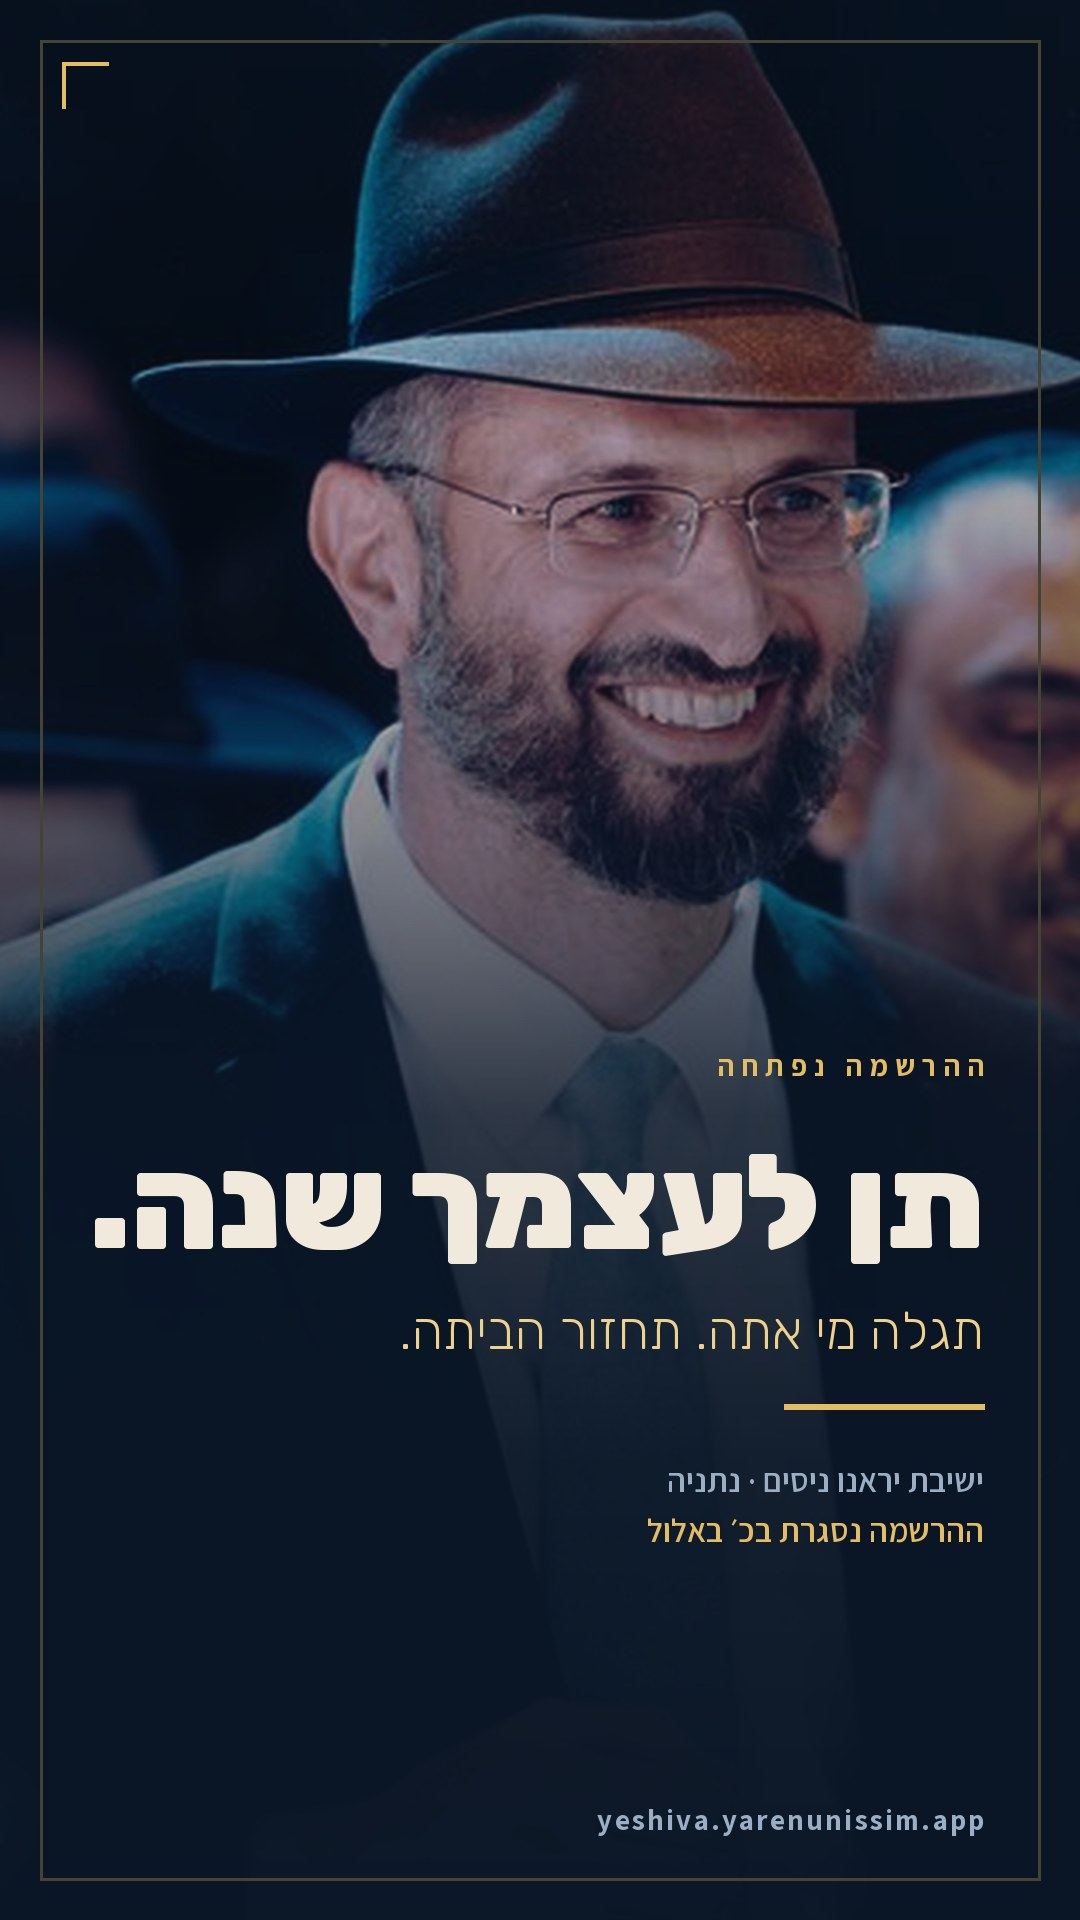
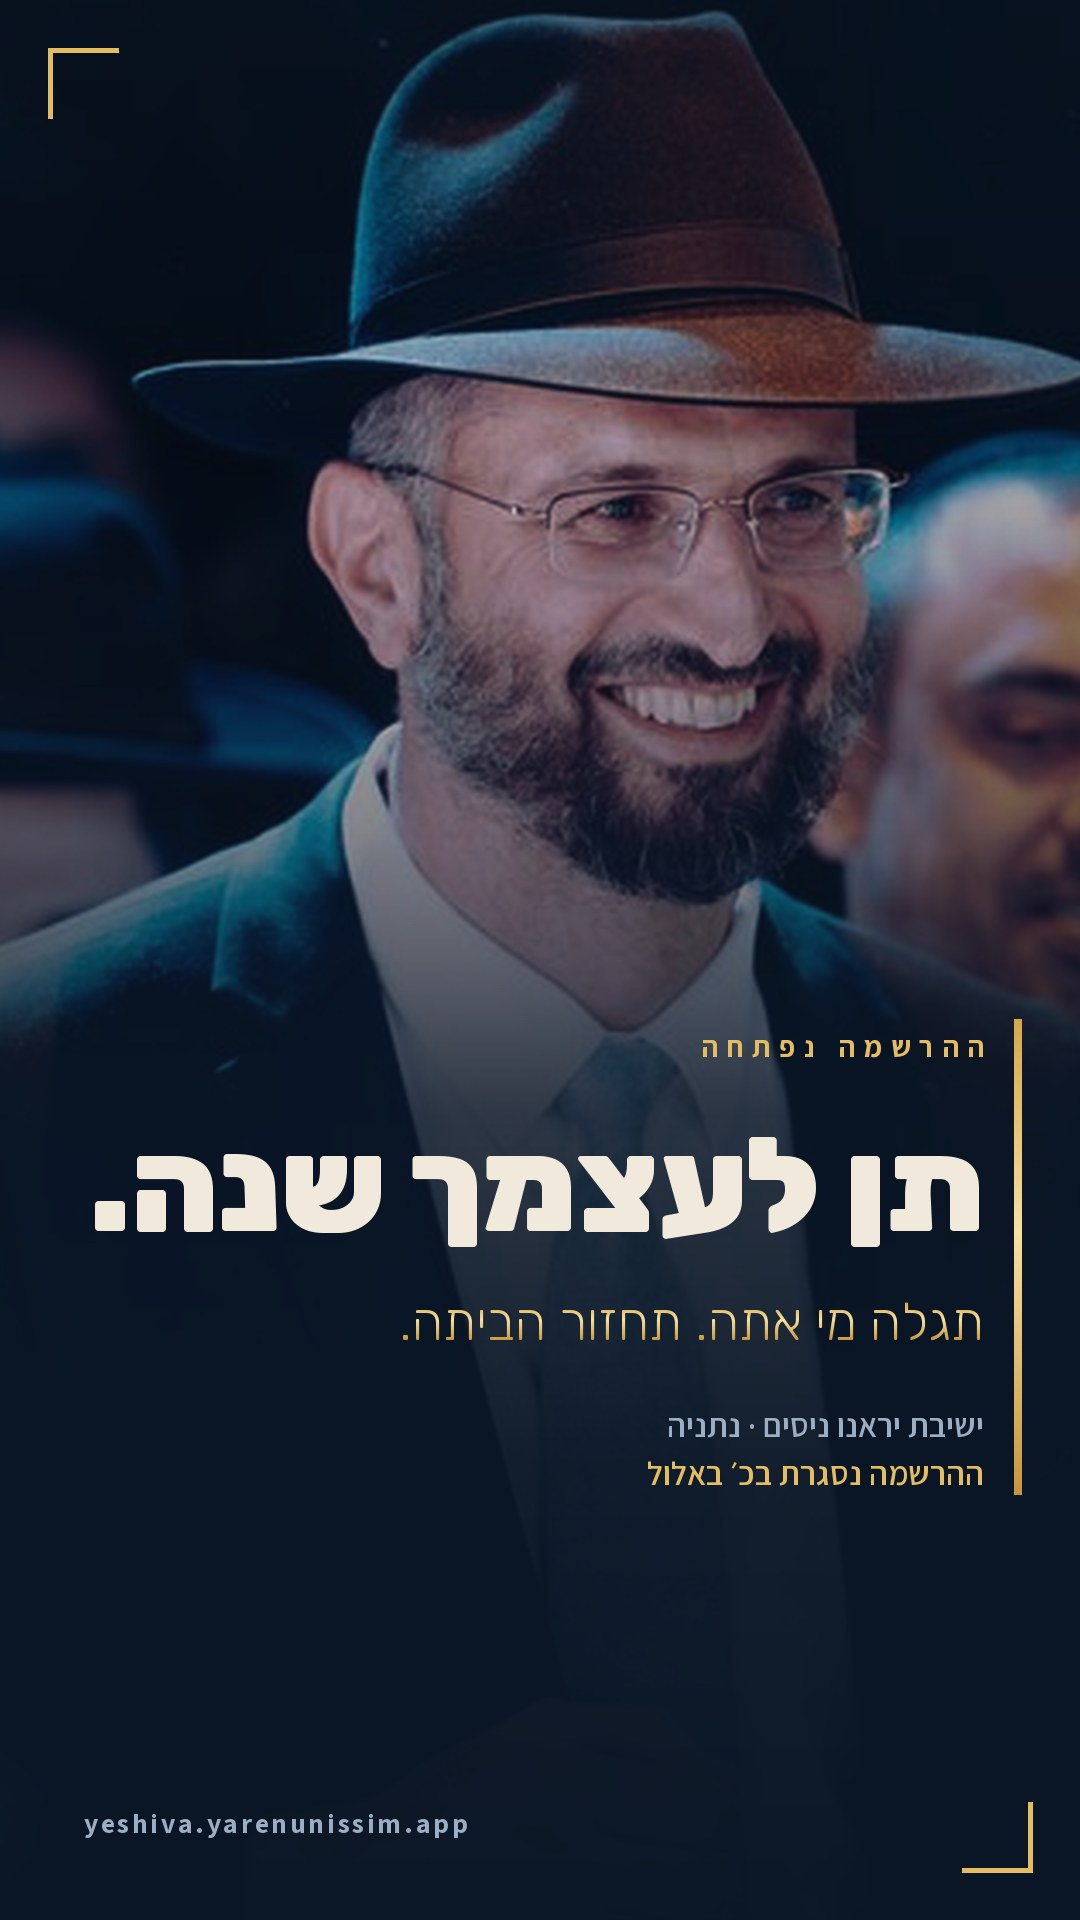
social v3: bracket marks replace the plain rectangle, gold spine anchors the copy, metallic gradient on the sub-line, URL moved clear of the corner mark

diff --git a/tools/make_social.py b/tools/make_social.py
@@ -121,6 +121,17 @@ def harmonize(im, shadow=INK, warm=1.04, strength=0.42):
     return Image.fromarray((np.clip(a, 0, 1) * 255).astype(np.uint8))
 
 
+def tracked_left(d, left, y, text, fnt, fill, track=0):
+    """Left-anchored tracked text — the URL is Latin, so it belongs on the left,
+    clear of the right-aligned Hebrew and the bottom-right bracket."""
+    vis = rtl(text)
+    x = left
+    for ch in vis:
+        d.text((x, y), ch, font=fnt, fill=fill)
+        x += d.textlength(ch, font=fnt) + track
+    return x - left
+
+
 def tracked(d, right, y, text, fnt, fill, track=0):
     """Letter-spaced text, right-anchored. PIL has no tracking, so advance by
     hand — the wide gold eyebrow is what makes the card feel typeset."""
@@ -134,17 +145,53 @@ def tracked(d, right, y, text, fnt, fill, track=0):
     return total
 
 
-def frame(d, w, h, inset, colour=GOLD, thick=2, alpha=70):
-    """Thin inset rule — reads as a printed edge, not a border."""
-    c = tuple(int(INK[i] + (colour[i] - INK[i]) * alpha / 255) for i in range(3))
-    d.rectangle([inset, inset, w - inset, h - inset], outline=c, width=thick)
+def gold_grad(w, h, c0=(214, 168, 74), c1=(247, 224, 160), c2=(198, 150, 60)):
+    """Vertical metallic ramp — flat gold reads as a colour, a ramp reads as leaf."""
+    top = np.linspace(0, 1, h, dtype=np.float32)[:, None]
+    a = np.asarray(c0, np.float32); b = np.asarray(c1, np.float32); c = np.asarray(c2, np.float32)
+    up = a + (b - a) * np.clip(top / 0.45, 0, 1)
+    dn = b + (c - b) * np.clip((top - 0.45) / 0.55, 0, 1)
+    col = np.where(top < 0.45, up, dn)
+    return Image.fromarray(np.repeat(col[:, None, :], w, axis=1).astype(np.uint8))
 
 
-def corner_mark(d, x, y, size, colour=GOLD):
-    """Small geometric accent: two strokes meeting at a corner."""
-    t = max(3, size // 12)
-    d.rectangle([x, y, x + size, y + t], fill=colour)
-    d.rectangle([x, y, x + t, y + size], fill=colour)
+def grad_text(base, xy, text, fnt, anchor="ra", grad=None):
+    """Draw text filled with a vertical gradient instead of a flat colour."""
+    tmp = Image.new("L", base.size, 0)
+    ImageDraw.Draw(tmp).text(xy, rtl(text), font=fnt, fill=255, anchor=anchor)
+    bbox = tmp.getbbox()
+    if not bbox:
+        return
+    g = grad if grad is not None else gold_grad(base.size[0], bbox[3] - bbox[1])
+    layer = Image.new("RGB", base.size, (0, 0, 0))
+    layer.paste(g.resize((base.size[0], bbox[3] - bbox[1])), (0, bbox[1]))
+    base.paste(layer, (0, 0), tmp)
+
+
+def bracket(d, x, y, size, thick, colour=GOLD, flip_x=False, flip_y=False):
+    """An open corner bracket — the frame is implied, not drawn. Reads as a
+    considered mark rather than the default rectangle a template would give."""
+    sx = -1 if flip_x else 1
+    sy = -1 if flip_y else 1
+    d.rectangle(sorted_box(x, y, x + sx * size, y + sy * thick), fill=colour)
+    d.rectangle(sorted_box(x, y, x + sx * thick, y + sy * size), fill=colour)
+
+
+def sorted_box(x0, y0, x1, y1):
+    return [min(x0, x1), min(y0, y1), max(x0, x1), max(y0, y1)]
+
+
+def corner_set(d, w, h, inset, size, thick=3):
+    """Brackets on the two diagonal corners only — asymmetry looks deliberate,
+    all four looks like a border."""
+    bracket(d, inset, inset, size, thick)
+    bracket(d, w - inset, h - inset, size, thick, flip_x=True, flip_y=True)
+
+
+def side_bar(base, x, y0, y1, width=7):
+    """A vertical gold spine beside the copy — anchors the text block."""
+    h = y1 - y0
+    base.paste(gold_grad(width, h), (x, y0))
 
 
 def vignette(im, strength=0.30):
@@ -172,29 +219,30 @@ def horizontal(w=1200, h=630, photo="opt/harav-portrait.jpg", out="og-share.jpg"
     base = vignette(base, 0.22)
 
     d = ImageDraw.Draw(base)
-    frame(d, w, h, 26)
-    corner_mark(d, 40, 40, 34)
+    corner_set(d, w, h, 30, 46, 3)
 
-    right = int(w * 0.555)
-    f_eye  = font("Assistant-700.ttf", 20)
-    f_head = font("Rubik-900.ttf", 86)
-    f_sub  = font("Rubik-300.ttf", 36)
-    f_sm   = font("Assistant-600.ttf", 23)
-    f_url  = font("Assistant-700.ttf", 20)
+    right = int(w * 0.560)
+    f_eye  = font("Assistant-700.ttf", 19)
+    f_head = font("Rubik-900.ttf", 92)
+    f_sub  = font("Rubik-300.ttf", 37)
+    f_sm   = font("Assistant-600.ttf", 22)
+    f_url  = font("Assistant-700.ttf", 19)
 
-    y = int(h * 0.185)
-    tracked(d, right, y, eyebrow, f_eye, GOLD, track=5.5)
-    y += 52
+    top = int(h * 0.175)
+    y = top
+    tracked(d, right, y, eyebrow, f_eye, GOLD, track=6.5)
+    y += 54
     d.text((right, y), rtl(HEAD), font=f_head, fill=TEXT, anchor="ra")
-    y += 112
-    d.text((right, y), rtl(SUB), font=f_sub, fill=GOLD_SOFT, anchor="ra")
-    y += 74
-    rule(d, right, y, 150, thick=4)
-    y += 36
+    y += 118
+    grad_text(base, (right, y), SUB, f_sub, anchor="ra")
+    d = ImageDraw.Draw(base)
+    y += 78
     d.text((right, y), rtl(BRAND), font=f_sm, fill=FAINT, anchor="ra")
-    y += 36
+    y += 34
     d.text((right, y), rtl(DATES), font=f_sm, fill=GOLD, anchor="ra")
-    tracked(d, right, h - 62, URL, f_url, FAINT, track=1.6)
+    side_bar(base, right + 22, top - 6, y + 30, 6)
+    d = ImageDraw.Draw(base)
+    tracked_left(d, 58, h - 58, URL, f_url, FAINT, track=1.8)
     return save(base, out)
 
 
@@ -205,8 +253,7 @@ def vertical(w=1080, h=1920, photo="opt/harav-portrait.jpg", out="story.jpg",
     base = scrim(base, vmask(w, h, [(0, 120), (0.22, 40), (0.44, 120),
                                     (0.58, 212), (0.76, 244), (1, 252)]))
     d = ImageDraw.Draw(base)
-    frame(d, w, h, 40, thick=3)
-    corner_mark(d, 62, 62, 46)
+    corner_set(d, w, h, 48, 70, 4)
 
     right = w - 96
     f_eye  = font("Assistant-700.ttf", 29)
@@ -214,19 +261,21 @@ def vertical(w=1080, h=1920, photo="opt/harav-portrait.jpg", out="story.jpg",
     f_sub  = font("Rubik-300.ttf", 52)
     f_sm   = font("Assistant-600.ttf", 33)
 
-    y = int(h * 0.545)
-    tracked(d, right, y, eyebrow, f_eye, GOLD, track=7)
-    y += 78
+    top = int(h * 0.535)
+    y = top
+    tracked(d, right, y, eyebrow, f_eye, GOLD, track=8.5)
+    y += 80
     d.text((right, y), rtl(HEAD), font=f_head, fill=TEXT, anchor="ra")
-    y += 176
-    d.text((right, y), rtl(SUB), font=f_sub, fill=GOLD_SOFT, anchor="ra")
-    y += 104
-    rule(d, right, y, 200, thick=5)
-    y += 54
+    y += 184
+    grad_text(base, (right, y), SUB, f_sub, anchor="ra")
+    d = ImageDraw.Draw(base)
+    y += 112
     d.text((right, y), rtl(BRAND), font=f_sm, fill=FAINT, anchor="ra")
-    y += 50
+    y += 48
     d.text((right, y), rtl(DATES), font=f_sm, fill=GOLD, anchor="ra")
-    tracked(d, right, h - 120, URL, font("Assistant-700.ttf", 29), FAINT, track=2.2)
+    side_bar(base, right + 30, top - 8, y + 44, 8)
+    d = ImageDraw.Draw(base)
+    tracked_left(d, 84, h - 116, URL, font("Assistant-700.ttf", 28), FAINT, track=2.6)
     return save(base, out)
 
 
@@ -237,8 +286,7 @@ def square(w=1080, h=1080, photo="opt/beit-midrash.jpg", out="instagram-post.jpg
     base = scrim(base, vmask(w, h, [(0, 140), (0.18, 70), (0.38, 180),
                                     (0.54, 232), (0.72, 248), (1, 252)]))
     d = ImageDraw.Draw(base)
-    frame(d, w, h, 34, thick=3)
-    corner_mark(d, 54, 54, 42)
+    corner_set(d, w, h, 40, 58, 4)
 
     right = w - 86
     f_eye  = font("Assistant-700.ttf", 25)
@@ -246,19 +294,21 @@ def square(w=1080, h=1080, photo="opt/beit-midrash.jpg", out="instagram-post.jpg
     f_sub  = font("Rubik-300.ttf", 42)
     f_sm   = font("Assistant-600.ttf", 29)
 
-    y = int(h * 0.435)
-    tracked(d, right, y, eyebrow, f_eye, GOLD, track=6)
-    y += 66
+    top = int(h * 0.425)
+    y = top
+    tracked(d, right, y, eyebrow, f_eye, GOLD, track=7)
+    y += 68
     d.text((right, y), rtl(HEAD), font=f_head, fill=TEXT, anchor="ra")
-    y += 140
-    d.text((right, y), rtl(SUB), font=f_sub, fill=GOLD_SOFT, anchor="ra")
-    y += 88
-    rule(d, right, y, 170, thick=5)
-    y += 46
+    y += 148
+    grad_text(base, (right, y), SUB, f_sub, anchor="ra")
+    d = ImageDraw.Draw(base)
+    y += 94
     d.text((right, y), rtl(BRAND), font=f_sm, fill=FAINT, anchor="ra")
-    y += 46
+    y += 44
     d.text((right, y), rtl(DATES), font=f_sm, fill=GOLD, anchor="ra")
-    tracked(d, right, h - 86, URL, font("Assistant-700.ttf", 25), FAINT, track=2)
+    side_bar(base, right + 26, top - 8, y + 40, 7)
+    d = ImageDraw.Draw(base)
+    tracked_left(d, 74, h - 82, URL, font("Assistant-700.ttf", 24), FAINT, track=2.2)
     return save(base, out)
 
 
